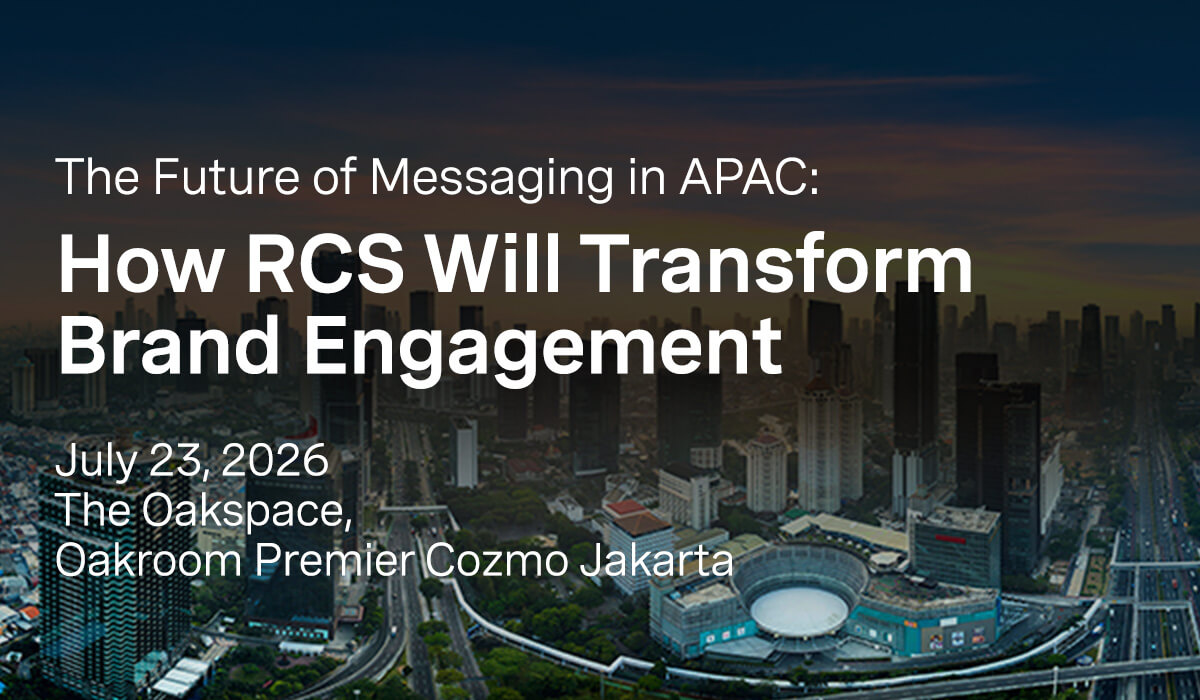
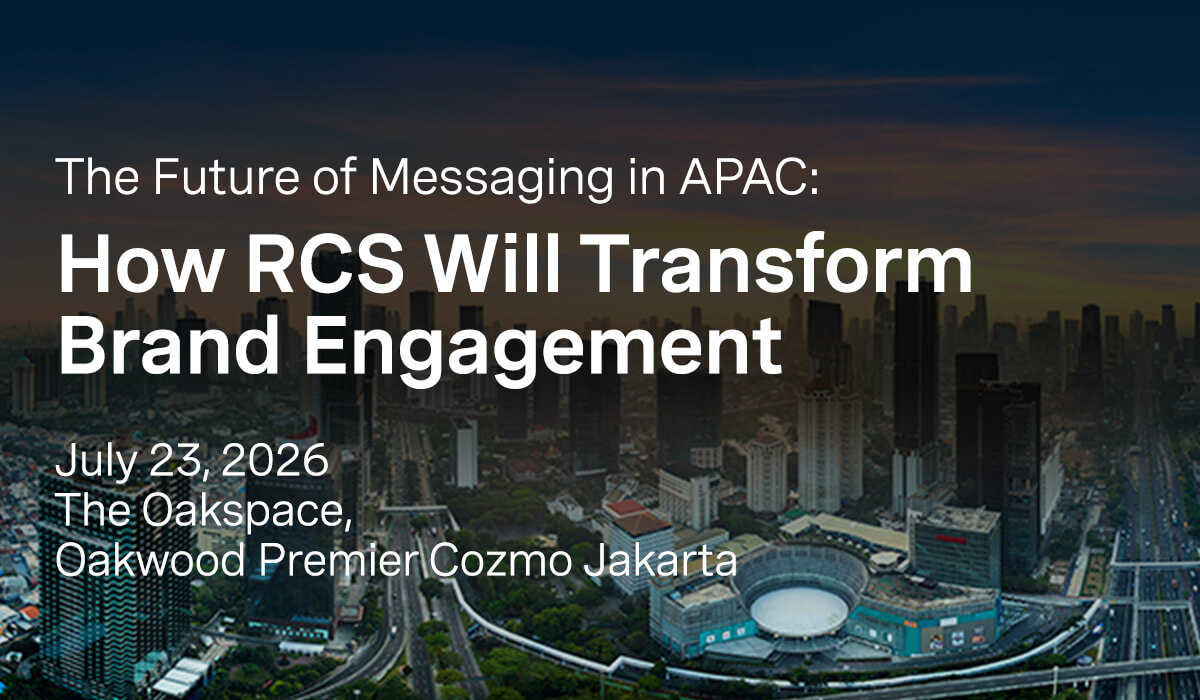
change days

Changed region(s): [[0.0925, 0.78, 0.6167, 0.84]]

diff --git a/index.html b/index.html
@@ -1,4 +1,4 @@
-<!doctype html><html lang="en" dir="ltr" xmlns="http://www.w3.org/1999/xhtml" xmlns:v="urn:schemas-microsoft-com:vml" xmlns:o="urn:schemas-microsoft-com:office:office"><head><title>2 weeks reminder</title><!--[if !mso]><!--><meta http-equiv="X-UA-Compatible" content="IE=edge"><!--<![endif]--><meta http-equiv="Content-Type" content="text/html; charset=UTF-8"><meta name="viewport" content="width=device-width, initial-scale=1"><style type="text/css">
+<!doctype html><html lang="en" dir="ltr" xmlns="http://www.w3.org/1999/xhtml" xmlns:v="urn:schemas-microsoft-com:vml" xmlns:o="urn:schemas-microsoft-com:office:office"><head><title>Reminder</title><!--[if !mso]><!--><meta http-equiv="X-UA-Compatible" content="IE=edge"><!--<![endif]--><meta http-equiv="Content-Type" content="text/html; charset=UTF-8"><meta name="viewport" content="width=device-width, initial-scale=1"><style type="text/css">
       #outlook a { padding:0; }
       body { margin:0;padding:0;-webkit-text-size-adjust:100%;-ms-text-size-adjust:100%; }
       table, td { border-collapse:collapse;mso-table-lspace:0pt;mso-table-rspace:0pt; }
@@ -55,4 +55,4 @@
 					padding-right: 20px !important;
 				}
             }
-    </style><meta name="color-scheme" content="light"><meta name="supported-color-schemes" content="light"></head><body class="body-wrapper" style="word-spacing:normal;background-color:#ffffff;"> <div aria-label="2 weeks reminder" aria-roledescription="email" role="article" lang="en" dir="ltr" style="word-spacing:normal;background-color:#ffffff;"> <!--[if mso | IE]><table align="center" border="0" cellpadding="0" cellspacing="0" class="" role="presentation" style="width:600px;" width="600" ><tr><td style="line-height:0px;font-size:0px;mso-line-height-rule:exactly;"><![endif]--> <div style="margin:0px auto;max-width:600px;"> <table align="center" border="0" cellpadding="0" cellspacing="0" role="presentation" style="width:100%;"> <tbody> <tr> <td style="direction:ltr;font-size:0px;padding:0;text-align:center;"> <!--[if mso | IE]><table role="presentation" border="0" cellpadding="0" cellspacing="0"><tr><td class="" style="vertical-align:top;width:600px;" ><![endif]--> <div class="mj-column-per-100 mj-outlook-group-fix" style="font-size:0px;text-align:left;direction:ltr;display:inline-block;vertical-align:top;width:100%;"> <table border="0" cellpadding="0" cellspacing="0" role="presentation" width="100%"> <tbody> <tr> <td style="vertical-align:top;padding:0;"> <table border="0" cellpadding="0" cellspacing="0" role="presentation" width="100%"> <tbody> <tr> <td align="right" style="font-size:0px;padding:10px;word-break:break-word;"> <div style="font-family:Roboto, sans-serif;font-size:12px;line-height:22px;text-align:right;color:#A1A1A1;">No images? <webversion style="color: #A1A1A1; text-decoration: underline; font-family: Roboto, sans-serif; font-size: 12px; line-height: 22px; color: #A1A1A1; text-decoration: underline; cursor:pointer;"> <span style="color: #A1A1A1; text-decoration: underline; font-family: Roboto, sans-serif; font-size: 12px; line-height: 22px; color: #A1A1A1; text-decoration: underline; cursor:pointer;">Click here</span> </webversion></div> </td> </tr> </tbody> </table> </td> </tr> </tbody> </table> </div> <!--[if mso | IE]></td></tr></table><![endif]--> </td> </tr> </tbody> </table> </div> <!--[if mso | IE]></td></tr></table><table align="center" border="0" cellpadding="0" cellspacing="0" class="" role="presentation" style="width:600px;" width="600" ><tr><td style="line-height:0px;font-size:0px;mso-line-height-rule:exactly;"><![endif]--> <div style="margin:0px auto;max-width:600px;"> <table align="center" border="0" cellpadding="0" cellspacing="0" role="presentation" style="width:100%;"> <tbody> <tr> <td style="direction:ltr;font-size:0px;padding:0;text-align:center;"> <!--[if mso | IE]><table role="presentation" border="0" cellpadding="0" cellspacing="0"><tr><td class="" style="vertical-align:top;width:600px;" ><![endif]--> <div class="mj-column-per-100 mj-outlook-group-fix" style="font-size:0px;text-align:left;direction:ltr;display:inline-block;vertical-align:top;width:100%;"> <table border="0" cellpadding="0" cellspacing="0" role="presentation" width="100%"> <tbody> <tr> <td style="vertical-align:top;padding:0;"> <table border="0" cellpadding="0" cellspacing="0" role="presentation" width="100%"> <tbody> <tr> <td align="center" style="font-size:0px;padding:0;word-break:break-word;"> <table border="0" cellpadding="0" cellspacing="0" role="presentation" style="border-collapse:collapse;border-spacing:0px;"> <tbody> <tr> <td style="width:600px;"> <a href="https://telkomsel-registration-confirmation.vercel.app/" target="_blank"> <img alt="How RCS will transform Brand engagement" src="images/23Header.jpg" style="border:0;display:block;outline:none;text-decoration:none;height:auto;width:100%;font-size:13px;" width="600" height="auto"> </a> </td> </tr> </tbody> </table> </td> </tr> </tbody> </table> </td> </tr> </tbody> </table> </div> <!--[if mso | IE]></td></tr></table><![endif]--> </td> </tr> </tbody> </table> </div> <!--[if mso | IE]></td></tr></table><table align="center" border="0" cellpadding="0" cellspacing="0" class="" role="presentation" style="width:600px;" width="600" ><tr><td style="line-height:0px;font-size:0px;mso-line-height-rule:exactly;"><![endif]--> <div style="margin:0px auto;max-width:600px;"> <table align="center" border="0" cellpadding="0" cellspacing="0" role="presentation" style="width:100%;"> <tbody> <tr> <td style="direction:ltr;font-size:0px;padding:0;text-align:center;"> <!--[if mso | IE]><table role="presentation" border="0" cellpadding="0" cellspacing="0"><tr><td class="fluid-padding-outlook" style="vertical-align:top;width:600px;" ><![endif]--> <div class="fluid-padding mj-column-per-100 mj-outlook-group-fix" style="font-size:0px;text-align:left;direction:ltr;display:inline-block;vertical-align:top;width:100%;"> <table border="0" cellpadding="0" cellspacing="0" role="presentation" width="100%"> <tbody> <tr> <td style="vertical-align:top;padding:60px 30px 0 30px;"> <table border="0" cellpadding="0" cellspacing="0" role="presentation" width="100%"> <tbody> <tr> <td align="left" style="font-size:0px;padding:0;padding-bottom:30px;word-break:break-word;"> <div style="font-family:Roboto, sans-serif;font-size:16px;line-height:26px;text-align:left;color:#000000;">Dear [firstname,fallback=],</div> </td> </tr> <tr> <td align="left" style="font-size:0px;padding:0;padding-bottom:30px;word-break:break-word;"> <div style="font-family:Roboto, sans-serif;font-size:16px;line-height:26px;text-align:left;color:#000000;">Just a reminder that <b>The Future of Messaging in APAC: How RCS Will Transform Brand Engagement</b> is happening in <b>two weeks</b>.</div> </td> </tr> <tr> <td align="left" style="font-size:0px;padding:0;padding-bottom:30px;word-break:break-word;"> <div style="font-family:Roboto, sans-serif;font-size:16px;line-height:36px;text-align:left;color:#000000;"><b>Event details:</b><br> 📅&nbsp;&nbsp;23 July 2026<br> 🕙&nbsp;&nbsp;10:00 AM - 3:00 PM<br> 📍&nbsp;&nbsp;The Oakspace, Oakroom Premier Cozmo Jakarta</div> </td> </tr> <tr> <td align="left" style="font-size:0px;padding:0;word-break:break-word;"> <div style="font-family:Roboto, sans-serif;font-size:16px;font-weight:bold;line-height:26px;text-align:left;color:#000000;">This invite-only event will cover:</div> </td> </tr> </tbody> </table> </td> </tr> </tbody> </table> </div> <!--[if mso | IE]></td></tr></table><![endif]--> </td> </tr> </tbody> </table> </div> <!--[if mso | IE]></td></tr></table><table align="center" border="0" cellpadding="0" cellspacing="0" class="" role="presentation" style="width:600px;" width="600" ><tr><td style="line-height:0px;font-size:0px;mso-line-height-rule:exactly;"><![endif]--> <div style="margin:0px auto;max-width:600px;"> <table align="center" border="0" cellpadding="0" cellspacing="0" role="presentation" style="width:100%;"> <tbody> <tr> <td style="direction:ltr;font-size:0px;padding:0;text-align:center;"> <!--[if mso | IE]><table role="presentation" border="0" cellpadding="0" cellspacing="0"><tr><td class="fluid-padding-outlook" style="vertical-align:top;width:600px;" ><![endif]--> <div class="fluid-padding mj-column-per-100 mj-outlook-group-fix" style="font-size:0px;text-align:left;direction:ltr;display:inline-block;vertical-align:top;width:100%;"> <table border="0" cellpadding="0" cellspacing="0" role="presentation" width="100%"> <tbody> <tr> <td style="vertical-align:top;padding:0 30px 30px 30px;"> <table border="0" cellpadding="0" cellspacing="0" role="presentation" width="100%"> <tbody> <tr> <td align="left" style="font-size:0px;padding:0;word-break:break-word;"> <div style="font-family:Helvetica, Roboto, sans-serif;font-size:16px;line-height:22px;text-align:left;color:#000000;"><mj-table style="width: 100%; border-collapse: collapse; mso-table-lspace: 0; mso-table-rspace: 0;" cellpadding="0" cellspacing="0"> <tr> <td style="font-family: Robota, sans-serif; width: 20px; vertical-align: top; padding: 0; font-size: 16px; font-weight: bold; line-height: 26px; color: #000000;">&bull;</td> <td style="font-family: Robota, sans-serif; vertical-align: top; padding: 0; font-size: 16px; line-height: 26px; color: #000000;">The latest RCS developments across global and APAC markets</td> </tr> <tr> <td style="font-family: Robota, sans-serif; width: 20px; vertical-align: top; padding: 0; font-size: 16px; font-weight: bold; line-height: 26px; color: #000000;">&bull;</td> <td style="font-family: Robota, sans-serif; vertical-align: top; padding: 0; font-size: 16px; line-height: 26px; color: #000000;">Real-world examples of higher engagement and conversion with RCS</td> </tr> <tr> <td style="font-family: Robota, sans-serif; width: 20px; vertical-align: top; padding: 0; font-size: 16px; font-weight: bold; line-height: 26px; color: #000000;">&bull;</td> <td style="font-family: Robota, sans-serif; vertical-align: top; padding: 0; font-size: 16px; line-height: 26px; color: #000000;">A live demo of rich, branded RCS experiences</td> </tr> <tr> <td style="font-family: Robota, sans-serif; width: 20px; vertical-align: top; padding: 0; font-size: 16px; font-weight: bold; line-height: 26px; color: #000000;">&bull;</td> <td style="font-family: Robota, sans-serif; vertical-align: top; padding: 0; font-size: 16px; line-height: 26px; color: #000000;">Strategic insights for your 2026 messaging and CX roadmap</td> </tr> </mj-table></div> </td> </tr> </tbody> </table> </td> </tr> </tbody> </table> </div> <!--[if mso | IE]></td></tr></table><![endif]--> </td> </tr> </tbody> </table> </div> <!--[if mso | IE]></td></tr></table><table align="center" border="0" cellpadding="0" cellspacing="0" class="" role="presentation" style="width:600px;" width="600" ><tr><td style="line-height:0px;font-size:0px;mso-line-height-rule:exactly;"><![endif]--> <div style="margin:0px auto;max-width:600px;"> <table align="center" border="0" cellpadding="0" cellspacing="0" role="presentation" style="width:100%;"> <tbody> <tr> <td style="direction:ltr;font-size:0px;padding:0;text-align:center;"> <!--[if mso | IE]><table role="presentation" border="0" cellpadding="0" cellspacing="0"><tr><td class="fluid-padding-outlook" style="vertical-align:top;width:600px;" ><![endif]--> <div class="fluid-padding mj-column-per-100 mj-outlook-group-fix" style="font-size:0px;text-align:left;direction:ltr;display:inline-block;vertical-align:top;width:100%;"> <table border="0" cellpadding="0" cellspacing="0" role="presentation" width="100%"> <tbody> <tr> <td style="vertical-align:top;padding:0 30px 30px 30px;"> <table border="0" cellpadding="0" cellspacing="0" role="presentation" width="100%"> <tbody> <tr> <td align="left" style="font-size:0px;padding:0;word-break:break-word;"> <div style="font-family:Roboto, sans-serif;font-size:16px;line-height:26px;text-align:left;color:#000000;">We look forward to seeing you there.</div> </td> </tr> </tbody> </table> </td> </tr> </tbody> </table> </div> <!--[if mso | IE]></td></tr></table><![endif]--> </td> </tr> </tbody> </table> </div> <!--[if mso | IE]></td></tr></table><table align="center" border="0" cellpadding="0" cellspacing="0" class="" role="presentation" style="width:600px;" width="600" ><tr><td style="line-height:0px;font-size:0px;mso-line-height-rule:exactly;"><![endif]--> <div style="margin:0px auto;max-width:600px;"> <table align="center" border="0" cellpadding="0" cellspacing="0" role="presentation" style="width:100%;"> <tbody> <tr> <td style="direction:ltr;font-size:0px;padding:0;text-align:center;"> <!--[if mso | IE]><table role="presentation" border="0" cellpadding="0" cellspacing="0"><tr><td class="fluid-padding-outlook" style="vertical-align:top;width:600px;" ><![endif]--> <div class="fluid-padding mj-column-per-100 mj-outlook-group-fix" style="font-size:0px;text-align:left;direction:ltr;display:inline-block;vertical-align:top;width:100%;"> <table border="0" cellpadding="0" cellspacing="0" role="presentation" width="100%"> <tbody> <tr> <td style="vertical-align:top;padding:0 30px 60px 30px;"> <table border="0" cellpadding="0" cellspacing="0" role="presentation" width="100%"> <tbody> <tr> <td align="left" style="font-size:0px;padding:0;word-break:break-word;"> <div style="font-family:Roboto, sans-serif;font-size:16px;line-height:26px;text-align:left;color:#000000;">Best regards,<br> <b>Vonage</b><br> APAC RCS Event Team</div> </td> </tr> </tbody> </table> </td> </tr> </tbody> </table> </div> <!--[if mso | IE]></td></tr></table><![endif]--> </td> </tr> </tbody> </table> </div> <!--[if mso | IE]></td></tr></table><table align="center" border="0" cellpadding="0" cellspacing="0" class="fluid-padding-outlook" role="presentation" style="width:600px;" width="600" ><tr><td style="line-height:0px;font-size:0px;mso-line-height-rule:exactly;"><![endif]--> <div class="fluid-padding" style="margin:0px auto;max-width:600px;"> <table align="center" border="0" cellpadding="0" cellspacing="0" role="presentation" style="width:100%;"> <tbody> <tr> <td style="direction:ltr;font-size:0px;padding:0 30px 60px 30px;text-align:center;"> <!--[if mso | IE]><table role="presentation" border="0" cellpadding="0" cellspacing="0"><tr><td class="" style="vertical-align:top;width:540px;" ><![endif]--> <div class="mj-column-per-100 mj-outlook-group-fix" style="font-size:0px;text-align:left;direction:ltr;display:inline-block;vertical-align:top;width:100%;"> <table border="0" cellpadding="0" cellspacing="0" role="presentation" width="100%"> <tbody> <tr> <td style="vertical-align:top;padding:0;"> <table border="0" cellpadding="0" cellspacing="0" role="presentation" width="100%"> <tbody> <tr> <td align="left" style="font-size:0px;padding:0;word-break:break-word;"> <div style="font-family:Roboto, sans-serif;font-size:12px;line-height:22px;text-align:left;color:#A1A1A1;"><preferences style="color: #A1A1A1; text-decoration: underline; font-family: Roboto, sans-serif; font-size: 12px; line-height: 22px; color: #A1A1A1; text-decoration: underline; cursor:pointer;"> <span style="color: #A1A1A1; text-decoration: underline; font-family: Roboto, sans-serif; font-size: 12px; line-height: 22px; color: #A1A1A1; text-decoration: underline; cursor:pointer;">Preferences</span> </preferences> &nbsp;&nbsp;|&nbsp;&nbsp; <unsubscribe style="color: #A1A1A1; text-decoration: underline; font-family: Roboto, sans-serif; font-size: 12px; line-height: 22px; color: #A1A1A1; text-decoration: underline; cursor:pointer;"> <span style="color: #A1A1A1; text-decoration: underline; font-family: Roboto, sans-serif; font-size: 12px; line-height: 22px; color: #A1A1A1; text-decoration: underline; cursor:pointer;">Unsubscribe</span> </unsubscribe></div> </td> </tr> </tbody> </table> </td> </tr> </tbody> </table> </div> <!--[if mso | IE]></td></tr></table><![endif]--> </td> </tr> </tbody> </table> </div> <!--[if mso | IE]></td></tr></table><![endif]--> </div> </body></html>
+    </style><meta name="color-scheme" content="light"><meta name="supported-color-schemes" content="light"></head><body class="body-wrapper" style="word-spacing:normal;background-color:#ffffff;"> <div aria-label="Reminder" aria-roledescription="email" role="article" lang="en" dir="ltr" style="word-spacing:normal;background-color:#ffffff;"> <!--[if mso | IE]><table align="center" border="0" cellpadding="0" cellspacing="0" class="" role="presentation" style="width:600px;" width="600" ><tr><td style="line-height:0px;font-size:0px;mso-line-height-rule:exactly;"><![endif]--> <div style="margin:0px auto;max-width:600px;"> <table align="center" border="0" cellpadding="0" cellspacing="0" role="presentation" style="width:100%;"> <tbody> <tr> <td style="direction:ltr;font-size:0px;padding:0;text-align:center;"> <!--[if mso | IE]><table role="presentation" border="0" cellpadding="0" cellspacing="0"><tr><td class="" style="vertical-align:top;width:600px;" ><![endif]--> <div class="mj-column-per-100 mj-outlook-group-fix" style="font-size:0px;text-align:left;direction:ltr;display:inline-block;vertical-align:top;width:100%;"> <table border="0" cellpadding="0" cellspacing="0" role="presentation" width="100%"> <tbody> <tr> <td style="vertical-align:top;padding:0;"> <table border="0" cellpadding="0" cellspacing="0" role="presentation" width="100%"> <tbody> <tr> <td align="right" style="font-size:0px;padding:10px;word-break:break-word;"> <div style="font-family:Roboto, sans-serif;font-size:12px;line-height:22px;text-align:right;color:#A1A1A1;">No images? <webversion style="color: #A1A1A1; text-decoration: underline; font-family: Roboto, sans-serif; font-size: 12px; line-height: 22px; color: #A1A1A1; text-decoration: underline; cursor:pointer;"> <span style="color: #A1A1A1; text-decoration: underline; font-family: Roboto, sans-serif; font-size: 12px; line-height: 22px; color: #A1A1A1; text-decoration: underline; cursor:pointer;">Click here</span> </webversion></div> </td> </tr> </tbody> </table> </td> </tr> </tbody> </table> </div> <!--[if mso | IE]></td></tr></table><![endif]--> </td> </tr> </tbody> </table> </div> <!--[if mso | IE]></td></tr></table><table align="center" border="0" cellpadding="0" cellspacing="0" class="" role="presentation" style="width:600px;" width="600" ><tr><td style="line-height:0px;font-size:0px;mso-line-height-rule:exactly;"><![endif]--> <div style="margin:0px auto;max-width:600px;"> <table align="center" border="0" cellpadding="0" cellspacing="0" role="presentation" style="width:100%;"> <tbody> <tr> <td style="direction:ltr;font-size:0px;padding:0;text-align:center;"> <!--[if mso | IE]><table role="presentation" border="0" cellpadding="0" cellspacing="0"><tr><td class="" style="vertical-align:top;width:600px;" ><![endif]--> <div class="mj-column-per-100 mj-outlook-group-fix" style="font-size:0px;text-align:left;direction:ltr;display:inline-block;vertical-align:top;width:100%;"> <table border="0" cellpadding="0" cellspacing="0" role="presentation" width="100%"> <tbody> <tr> <td style="vertical-align:top;padding:0;"> <table border="0" cellpadding="0" cellspacing="0" role="presentation" width="100%"> <tbody> <tr> <td align="center" style="font-size:0px;padding:0;word-break:break-word;"> <table border="0" cellpadding="0" cellspacing="0" role="presentation" style="border-collapse:collapse;border-spacing:0px;"> <tbody> <tr> <td style="width:600px;"> <a href="https://telkomsel-registration-confirmation.vercel.app/" target="_blank"> <img alt="How RCS will transform Brand engagement" src="images/23Header.jpg" style="border:0;display:block;outline:none;text-decoration:none;height:auto;width:100%;font-size:13px;" width="600" height="auto"> </a> </td> </tr> </tbody> </table> </td> </tr> </tbody> </table> </td> </tr> </tbody> </table> </div> <!--[if mso | IE]></td></tr></table><![endif]--> </td> </tr> </tbody> </table> </div> <!--[if mso | IE]></td></tr></table><table align="center" border="0" cellpadding="0" cellspacing="0" class="" role="presentation" style="width:600px;" width="600" ><tr><td style="line-height:0px;font-size:0px;mso-line-height-rule:exactly;"><![endif]--> <div style="margin:0px auto;max-width:600px;"> <table align="center" border="0" cellpadding="0" cellspacing="0" role="presentation" style="width:100%;"> <tbody> <tr> <td style="direction:ltr;font-size:0px;padding:0;text-align:center;"> <!--[if mso | IE]><table role="presentation" border="0" cellpadding="0" cellspacing="0"><tr><td class="fluid-padding-outlook" style="vertical-align:top;width:600px;" ><![endif]--> <div class="fluid-padding mj-column-per-100 mj-outlook-group-fix" style="font-size:0px;text-align:left;direction:ltr;display:inline-block;vertical-align:top;width:100%;"> <table border="0" cellpadding="0" cellspacing="0" role="presentation" width="100%"> <tbody> <tr> <td style="vertical-align:top;padding:60px 30px 0 30px;"> <table border="0" cellpadding="0" cellspacing="0" role="presentation" width="100%"> <tbody> <tr> <td align="left" style="font-size:0px;padding:0;padding-bottom:30px;word-break:break-word;"> <div style="font-family:Roboto, sans-serif;font-size:16px;line-height:26px;text-align:left;color:#000000;">Dear [firstname,fallback=],</div> </td> </tr> <tr> <td align="left" style="font-size:0px;padding:0;padding-bottom:30px;word-break:break-word;"> <div style="font-family:Roboto, sans-serif;font-size:16px;line-height:26px;text-align:left;color:#000000;">Just a reminder that <b>The Future of Messaging in APAC: How RCS Will Transform Brand Engagement</b> is happening in <b>6 days</b>.</div> </td> </tr> <tr> <td align="left" style="font-size:0px;padding:0;padding-bottom:30px;word-break:break-word;"> <div style="font-family:Roboto, sans-serif;font-size:16px;line-height:36px;text-align:left;color:#000000;"><b>Event details:</b><br> 📅&nbsp;&nbsp;23 July 2026<br> 🕙&nbsp;&nbsp;10:00 AM - 3:00 PM<br> 📍&nbsp;&nbsp;The Oakspace, Oakwood Premier Cozmo Jakarta</div> </td> </tr> <tr> <td align="left" style="font-size:0px;padding:0;word-break:break-word;"> <div style="font-family:Roboto, sans-serif;font-size:16px;font-weight:bold;line-height:26px;text-align:left;color:#000000;">This invite-only event will cover:</div> </td> </tr> </tbody> </table> </td> </tr> </tbody> </table> </div> <!--[if mso | IE]></td></tr></table><![endif]--> </td> </tr> </tbody> </table> </div> <!--[if mso | IE]></td></tr></table><table align="center" border="0" cellpadding="0" cellspacing="0" class="" role="presentation" style="width:600px;" width="600" ><tr><td style="line-height:0px;font-size:0px;mso-line-height-rule:exactly;"><![endif]--> <div style="margin:0px auto;max-width:600px;"> <table align="center" border="0" cellpadding="0" cellspacing="0" role="presentation" style="width:100%;"> <tbody> <tr> <td style="direction:ltr;font-size:0px;padding:0;text-align:center;"> <!--[if mso | IE]><table role="presentation" border="0" cellpadding="0" cellspacing="0"><tr><td class="fluid-padding-outlook" style="vertical-align:top;width:600px;" ><![endif]--> <div class="fluid-padding mj-column-per-100 mj-outlook-group-fix" style="font-size:0px;text-align:left;direction:ltr;display:inline-block;vertical-align:top;width:100%;"> <table border="0" cellpadding="0" cellspacing="0" role="presentation" width="100%"> <tbody> <tr> <td style="vertical-align:top;padding:0 30px 30px 30px;"> <table border="0" cellpadding="0" cellspacing="0" role="presentation" width="100%"> <tbody> <tr> <td align="left" style="font-size:0px;padding:0;word-break:break-word;"> <div style="font-family:Helvetica, Roboto, sans-serif;font-size:16px;line-height:22px;text-align:left;color:#000000;"><mj-table style="width: 100%; border-collapse: collapse; mso-table-lspace: 0; mso-table-rspace: 0;" cellpadding="0" cellspacing="0"> <tr> <td style="font-family: Robota, sans-serif; width: 20px; vertical-align: top; padding: 0; font-size: 16px; font-weight: bold; line-height: 26px; color: #000000;">&bull;</td> <td style="font-family: Robota, sans-serif; vertical-align: top; padding: 0; font-size: 16px; line-height: 26px; color: #000000;">The latest RCS developments across global and APAC markets</td> </tr> <tr> <td style="font-family: Robota, sans-serif; width: 20px; vertical-align: top; padding: 0; font-size: 16px; font-weight: bold; line-height: 26px; color: #000000;">&bull;</td> <td style="font-family: Robota, sans-serif; vertical-align: top; padding: 0; font-size: 16px; line-height: 26px; color: #000000;">Real-world examples of higher engagement and conversion with RCS</td> </tr> <tr> <td style="font-family: Robota, sans-serif; width: 20px; vertical-align: top; padding: 0; font-size: 16px; font-weight: bold; line-height: 26px; color: #000000;">&bull;</td> <td style="font-family: Robota, sans-serif; vertical-align: top; padding: 0; font-size: 16px; line-height: 26px; color: #000000;">A live demo of rich, branded RCS experiences</td> </tr> <tr> <td style="font-family: Robota, sans-serif; width: 20px; vertical-align: top; padding: 0; font-size: 16px; font-weight: bold; line-height: 26px; color: #000000;">&bull;</td> <td style="font-family: Robota, sans-serif; vertical-align: top; padding: 0; font-size: 16px; line-height: 26px; color: #000000;">Strategic insights for your 2026 messaging and CX roadmap</td> </tr> </mj-table></div> </td> </tr> </tbody> </table> </td> </tr> </tbody> </table> </div> <!--[if mso | IE]></td></tr></table><![endif]--> </td> </tr> </tbody> </table> </div> <!--[if mso | IE]></td></tr></table><table align="center" border="0" cellpadding="0" cellspacing="0" class="" role="presentation" style="width:600px;" width="600" ><tr><td style="line-height:0px;font-size:0px;mso-line-height-rule:exactly;"><![endif]--> <div style="margin:0px auto;max-width:600px;"> <table align="center" border="0" cellpadding="0" cellspacing="0" role="presentation" style="width:100%;"> <tbody> <tr> <td style="direction:ltr;font-size:0px;padding:0;text-align:center;"> <!--[if mso | IE]><table role="presentation" border="0" cellpadding="0" cellspacing="0"><tr><td class="fluid-padding-outlook" style="vertical-align:top;width:600px;" ><![endif]--> <div class="fluid-padding mj-column-per-100 mj-outlook-group-fix" style="font-size:0px;text-align:left;direction:ltr;display:inline-block;vertical-align:top;width:100%;"> <table border="0" cellpadding="0" cellspacing="0" role="presentation" width="100%"> <tbody> <tr> <td style="vertical-align:top;padding:0 30px 30px 30px;"> <table border="0" cellpadding="0" cellspacing="0" role="presentation" width="100%"> <tbody> <tr> <td align="left" style="font-size:0px;padding:0;word-break:break-word;"> <div style="font-family:Roboto, sans-serif;font-size:16px;line-height:26px;text-align:left;color:#000000;">We look forward to seeing you there.</div> </td> </tr> </tbody> </table> </td> </tr> </tbody> </table> </div> <!--[if mso | IE]></td></tr></table><![endif]--> </td> </tr> </tbody> </table> </div> <!--[if mso | IE]></td></tr></table><table align="center" border="0" cellpadding="0" cellspacing="0" class="" role="presentation" style="width:600px;" width="600" ><tr><td style="line-height:0px;font-size:0px;mso-line-height-rule:exactly;"><![endif]--> <div style="margin:0px auto;max-width:600px;"> <table align="center" border="0" cellpadding="0" cellspacing="0" role="presentation" style="width:100%;"> <tbody> <tr> <td style="direction:ltr;font-size:0px;padding:0;text-align:center;"> <!--[if mso | IE]><table role="presentation" border="0" cellpadding="0" cellspacing="0"><tr><td class="fluid-padding-outlook" style="vertical-align:top;width:600px;" ><![endif]--> <div class="fluid-padding mj-column-per-100 mj-outlook-group-fix" style="font-size:0px;text-align:left;direction:ltr;display:inline-block;vertical-align:top;width:100%;"> <table border="0" cellpadding="0" cellspacing="0" role="presentation" width="100%"> <tbody> <tr> <td style="vertical-align:top;padding:0 30px 60px 30px;"> <table border="0" cellpadding="0" cellspacing="0" role="presentation" width="100%"> <tbody> <tr> <td align="left" style="font-size:0px;padding:0;word-break:break-word;"> <div style="font-family:Roboto, sans-serif;font-size:16px;line-height:26px;text-align:left;color:#000000;">Best regards,<br> <b>Vonage</b><br> APAC RCS Event Team</div> </td> </tr> </tbody> </table> </td> </tr> </tbody> </table> </div> <!--[if mso | IE]></td></tr></table><![endif]--> </td> </tr> </tbody> </table> </div> <!--[if mso | IE]></td></tr></table><table align="center" border="0" cellpadding="0" cellspacing="0" class="fluid-padding-outlook" role="presentation" style="width:600px;" width="600" ><tr><td style="line-height:0px;font-size:0px;mso-line-height-rule:exactly;"><![endif]--> <div class="fluid-padding" style="margin:0px auto;max-width:600px;"> <table align="center" border="0" cellpadding="0" cellspacing="0" role="presentation" style="width:100%;"> <tbody> <tr> <td style="direction:ltr;font-size:0px;padding:0 30px 60px 30px;text-align:center;"> <!--[if mso | IE]><table role="presentation" border="0" cellpadding="0" cellspacing="0"><tr><td class="" style="vertical-align:top;width:540px;" ><![endif]--> <div class="mj-column-per-100 mj-outlook-group-fix" style="font-size:0px;text-align:left;direction:ltr;display:inline-block;vertical-align:top;width:100%;"> <table border="0" cellpadding="0" cellspacing="0" role="presentation" width="100%"> <tbody> <tr> <td style="vertical-align:top;padding:0;"> <table border="0" cellpadding="0" cellspacing="0" role="presentation" width="100%"> <tbody> <tr> <td align="left" style="font-size:0px;padding:0;word-break:break-word;"> <div style="font-family:Roboto, sans-serif;font-size:12px;line-height:22px;text-align:left;color:#A1A1A1;"><preferences style="color: #A1A1A1; text-decoration: underline; font-family: Roboto, sans-serif; font-size: 12px; line-height: 22px; color: #A1A1A1; text-decoration: underline; cursor:pointer;"> <span style="color: #A1A1A1; text-decoration: underline; font-family: Roboto, sans-serif; font-size: 12px; line-height: 22px; color: #A1A1A1; text-decoration: underline; cursor:pointer;">Preferences</span> </preferences> &nbsp;&nbsp;|&nbsp;&nbsp; <unsubscribe style="color: #A1A1A1; text-decoration: underline; font-family: Roboto, sans-serif; font-size: 12px; line-height: 22px; color: #A1A1A1; text-decoration: underline; cursor:pointer;"> <span style="color: #A1A1A1; text-decoration: underline; font-family: Roboto, sans-serif; font-size: 12px; line-height: 22px; color: #A1A1A1; text-decoration: underline; cursor:pointer;">Unsubscribe</span> </unsubscribe></div> </td> </tr> </tbody> </table> </td> </tr> </tbody> </table> </div> <!--[if mso | IE]></td></tr></table><![endif]--> </td> </tr> </tbody> </table> </div> <!--[if mso | IE]></td></tr></table><![endif]--> </div> </body></html>